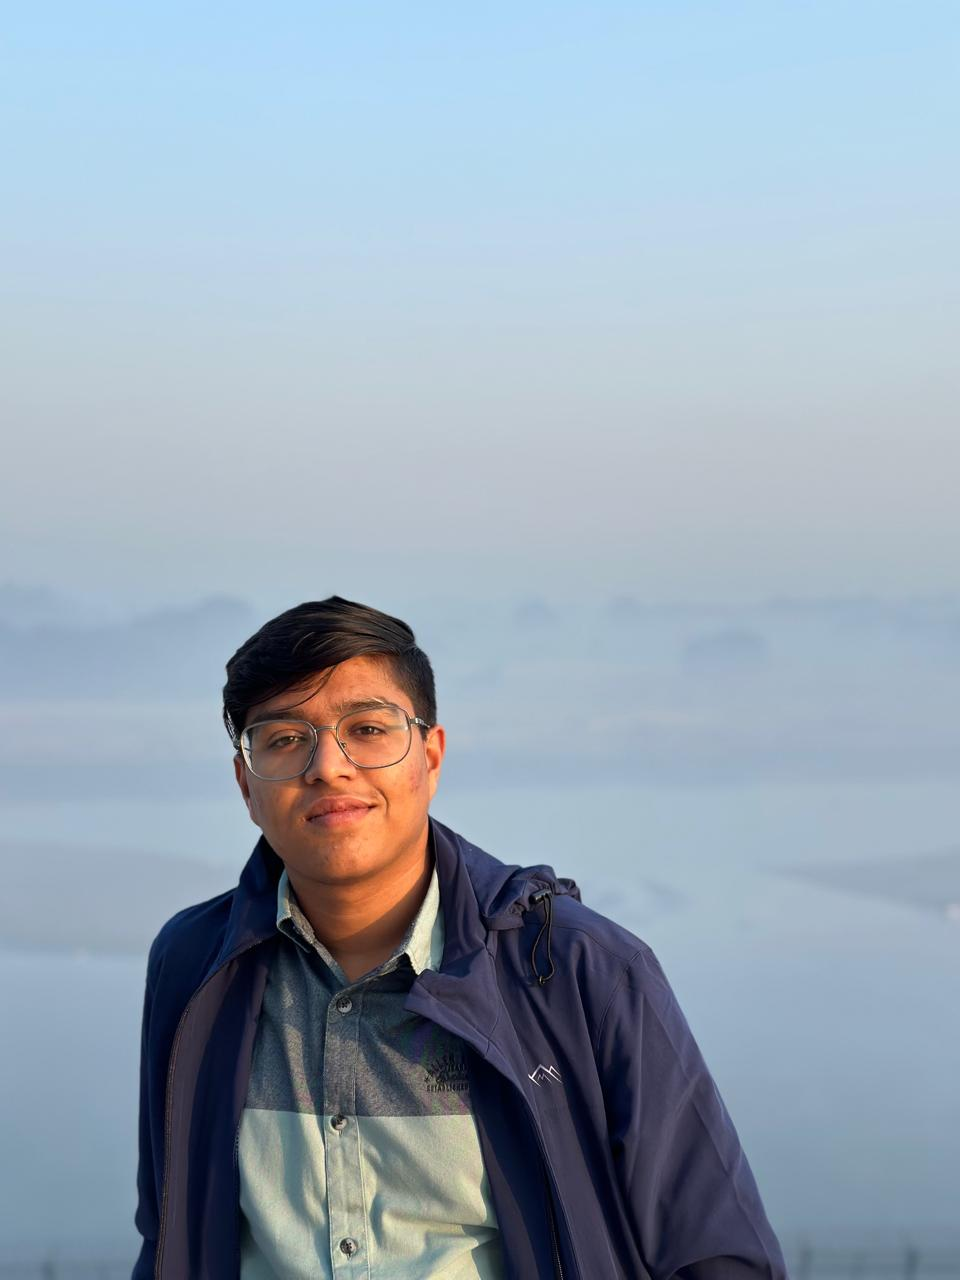
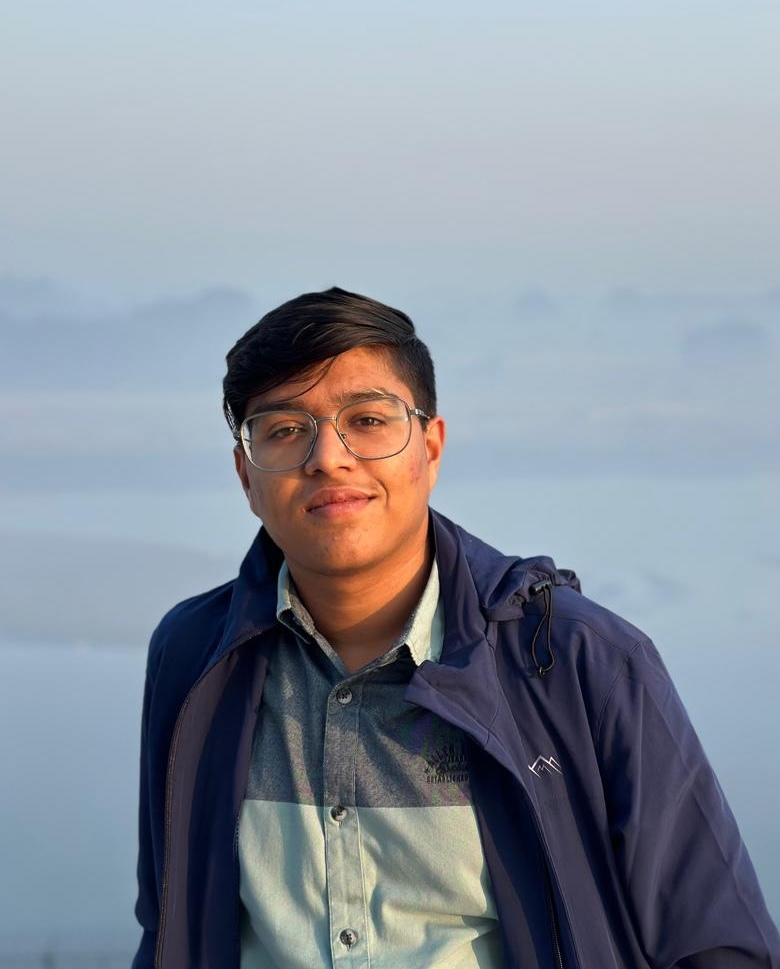
Minor ui bug fixes

diff --git a/src/App.css b/src/App.css
@@ -635,6 +635,15 @@ footer {
       grid-template-columns: 1fr;
       gap: 2rem;
   }
+  .nav-buttons {
+      display: flex;
+      align-items: center;
+      margin-left: auto;
+  }
+
+  .theme-toggle {
+      margin-right: 1rem;
+  }
 }
 
 @media (max-width: 768px) {
@@ -684,6 +693,15 @@ footer {
   .footer-nav {
       flex-wrap: wrap;
       justify-content: center;
+  }
+  .nav-buttons {
+      display: flex;
+      align-items: center;
+      margin-left: auto;
+  }
+
+  .theme-toggle {
+      margin-right: 1rem;
   }
 }
 
@@ -805,7 +823,7 @@ html {
 .profile-image-container {
   position: relative;
   width: 100%;
-  max-width: 285px;
+  max-width: 340px;
   margin: 0 auto;
   background-color: var(--background);
   border-radius: 16px;

diff --git a/src/components/About.js b/src/components/About.js
@@ -118,7 +118,7 @@ const About = () => {
                   whileHover="hover"
                 >
                   <motion.img 
-                    src="./images/profilephoto.jpg" 
+                    src="./images/client1.jpeg" 
                     alt="Krishna Poddar" 
                     className="profile-image"
                     variants={profileImageVariants}

diff --git a/src/pages/ProjectDetail.css b/src/pages/ProjectDetail.css
@@ -378,7 +378,7 @@
 
 @media (max-width: 768px) {
     .project-title {
-        font-size: 3.5rem;
+        font-size: 3rem;
     }
     
     .project-subtitle {
